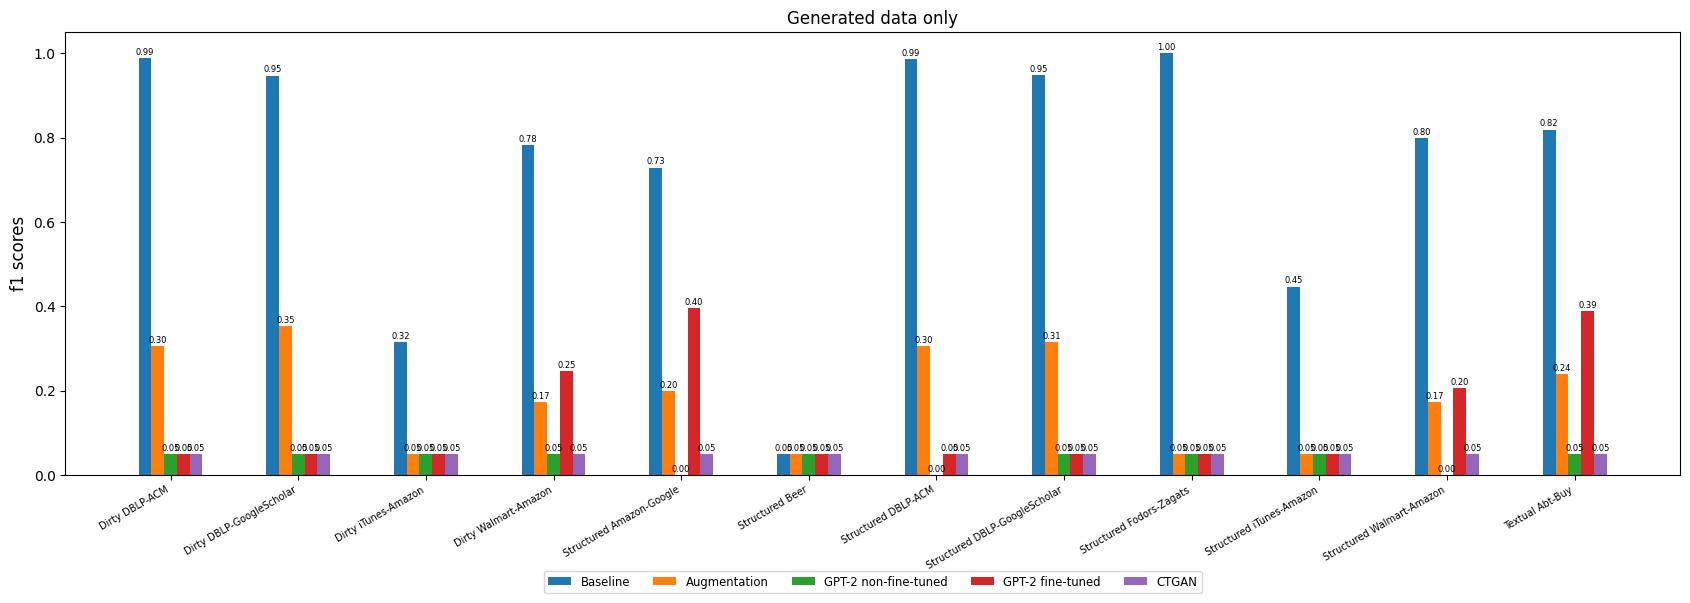
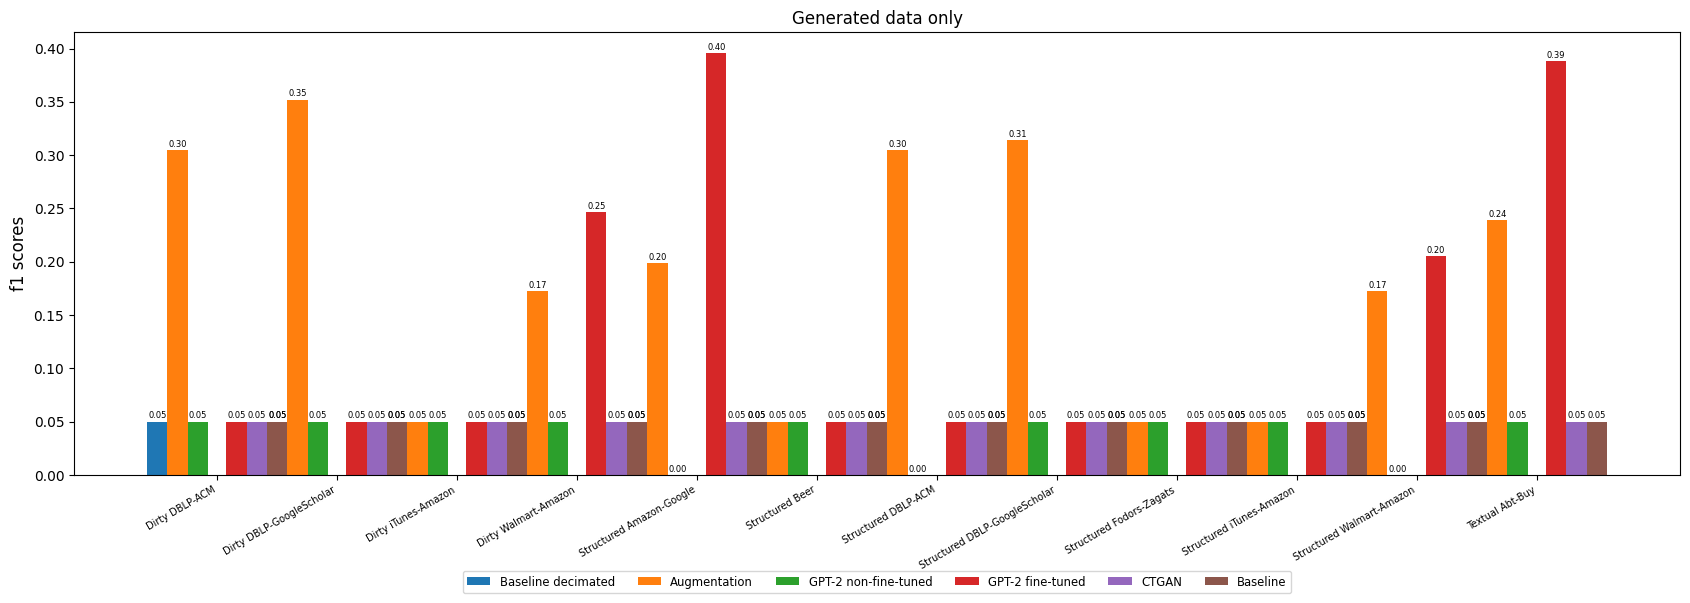
new graphs

diff --git a/ditto/Writer_output/graph_maker.py b/ditto/Writer_output/graph_maker.py
@@ -43,18 +43,22 @@ for directory in directory_list:
             avg = get_best_average_f1(directory)
             if avg <= 1:
                 name = directory.replace("./", "").replace(dataset, "").replace("__", "_")
-                if "baseline" in name: er_magellan[dataset]["Baseline"] = get_best_average_f1(directory)
+                if "baseline" in name: 
+                    if "_decimated" in name:
+                        er_magellan[dataset]["Baseline decimated"] = get_best_average_f1(directory)
+                    else: er_magellan[dataset]["Baseline"] = get_best_average_f1(directory)
                 else: er_magellan[dataset][name] = get_best_average_f1(directory)
 
-# for dataset in er_magellan.keys():
-#     print(dataset)
-#     for directory in er_magellan[dataset]:
-#         print(f"\t{directory}: {er_magellan[dataset][directory]}")
+for dataset in er_magellan.keys():
+    print(dataset)
+    for directory in er_magellan[dataset]:
+        print(f"\t{directory}: {er_magellan[dataset][directory]}")
             
 
 def make_plot(plot_type, title, decimated=True):
     labels = [dataset for dataset in er_magellan.keys()]
     baseline = [0.05 for _ in range(len(labels))]
+    baseline_decimated = [0.05 for _ in range(len(labels))]
     augmentation = [0.05 for _ in range(len(labels))]
     gpt2_ft = [0.05 for _ in range(len(labels))]
     gpt2_nft = [0.05 for _ in range(len(labels))]
@@ -62,16 +66,18 @@ def make_plot(plot_type, title, decimated=True):
     
     for i in range(len(labels)):
         for key in er_magellan[labels[i]].keys():
-            if key == "Baseline": baseline[i] = er_magellan[labels[i]][key]
             if plot_type in key:
                 if decimated:
                     if "decimated" in key:
+                        if key == "Baseline": baseline[i] = er_magellan[labels[i]][key]
+                        if key == "Baseline decimated": baseline_decimated[i] = er_magellan[labels[i]][key]
                         if "Augmentation" in key: augmentation[i] = er_magellan[labels[i]][key]
                         if "GPT-2" in key and "nft" in key: gpt2_nft[i] = er_magellan[labels[i]][key]
                         if "GPT-2" in key and "nft" not in key: gpt2_ft[i] = er_magellan[labels[i]][key]
                         if "CTGAN" in key: ctgan[i] = er_magellan[labels[i]][key]
                 else:
                     if "decimated" not in key:
+                        if key == "Baseline": baseline[i] = er_magellan[labels[i]][key]
                         if "Augmentation" in key: augmentation[i] = er_magellan[labels[i]][key]
                         if "GPT-2" in key and "nft" in key: gpt2_nft[i] = er_magellan[labels[i]][key]
                         if "GPT-2" in key and "nft" not in key: gpt2_ft[i] = er_magellan[labels[i]][key]
@@ -81,25 +87,40 @@ def make_plot(plot_type, title, decimated=True):
 
 
     x = np.arange(len(labels))  # the label locations
-    width = 0.1
 
     fig, ax = plt.subplots(figsize=(17, 6))
-    baseline_rects = ax.bar(x - 0.20, baseline, width, label='Baseline')
-    augmentation_rects = ax.bar(x - 0.10, augmentation, width, label='Augmentation')
-    gpt2_nft_rects = ax.bar(x, gpt2_nft, width, label='GPT-2 non-fine-tuned')
-    gpt2_ft_rects = ax.bar(x + 0.10, gpt2_ft, width, label='GPT-2 fine-tuned')
-    ctgan_rects = ax.bar(x + 0.20, ctgan, width, label='CTGAN')
+    if decimated:
+        width = 0.17
+        baseline_decimated_rects = ax.bar(x-0.5, baseline_decimated, width, label="Baseline decimated")
+        augmentation_rects = ax.bar(x - 0.33, augmentation, width, label='Augmentation')
+        gpt2_nft_rects = ax.bar(x - 0.16, gpt2_nft, width, label='GPT-2 non-fine-tuned')
+        gpt2_ft_rects = ax.bar(x + 0.16, gpt2_ft, width, label='GPT-2 fine-tuned')
+        ctgan_rects = ax.bar(x + 0.33, ctgan, width, label='CTGAN')
+        baseline_rects = ax.bar(x + 0.5, baseline, width, label='Baseline')
+        ax.legend(bbox_to_anchor =(0.5,-0.28), loc='lower center', fontsize='small', ncol=6)
+        ax.bar_label(baseline_decimated_rects, padding=1, fmt="%.2f", fontsize=6)
+        ax.bar_label(augmentation_rects, padding=1, fmt="%.2f", fontsize=6)
+        ax.bar_label(gpt2_nft_rects, padding=1, fmt="%.2f", fontsize=6)
+        ax.bar_label(gpt2_ft_rects, padding=1, fmt="%.2f", fontsize=6)
+        ax.bar_label(ctgan_rects, padding=1, fmt="%.2f", fontsize=6)
+        ax.bar_label(baseline_rects, padding=1, fmt="%.2f", fontsize=6)
+    else:
+        width=0.15
+        baseline_rects = ax.bar(x - 0.3, baseline, width, label='Baseline')
+        augmentation_rects = ax.bar(x - 0.15, augmentation, width, label='Augmentation')
+        gpt2_nft_rects = ax.bar(x, gpt2_nft, width, label='GPT-2 non-fine-tuned')
+        gpt2_ft_rects = ax.bar(x + 0.15, gpt2_ft, width, label='GPT-2 fine-tuned')
+        ctgan_rects = ax.bar(x + 0.30, ctgan, width, label='CTGAN')
+        ax.legend(bbox_to_anchor =(0.5,-0.28), loc='lower center', fontsize='small', ncol=5)
+        ax.bar_label(baseline_rects, padding=1, fmt="%.2f", fontsize=6)
+        ax.bar_label(augmentation_rects, padding=1, fmt="%.2f", fontsize=6)
+        ax.bar_label(gpt2_nft_rects, padding=1, fmt="%.2f", fontsize=6)
+        ax.bar_label(gpt2_ft_rects, padding=1, fmt="%.2f", fontsize=6)
+        ax.bar_label(ctgan_rects, padding=1, fmt="%.2f", fontsize=6)
 
     ax.set_ylabel('f1 scores', fontsize=12)
     ax.set_title(title)
     ax.set_xticks(x, labels, fontsize=7)
-    ax.legend(bbox_to_anchor =(0.5,-0.28), loc='lower center', fontsize='small', ncol=5)
-
-    ax.bar_label(baseline_rects, padding=1, fmt="%.2f", fontsize=6)
-    ax.bar_label(augmentation_rects, padding=1, fmt="%.2f", fontsize=6)
-    ax.bar_label(gpt2_nft_rects, padding=1, fmt="%.2f", fontsize=6)
-    ax.bar_label(gpt2_ft_rects, padding=1, fmt="%.2f", fontsize=6)
-    ax.bar_label(ctgan_rects, padding=1, fmt="%.2f", fontsize=6)
 
     fig.tight_layout()
     fig.autofmt_xdate()
